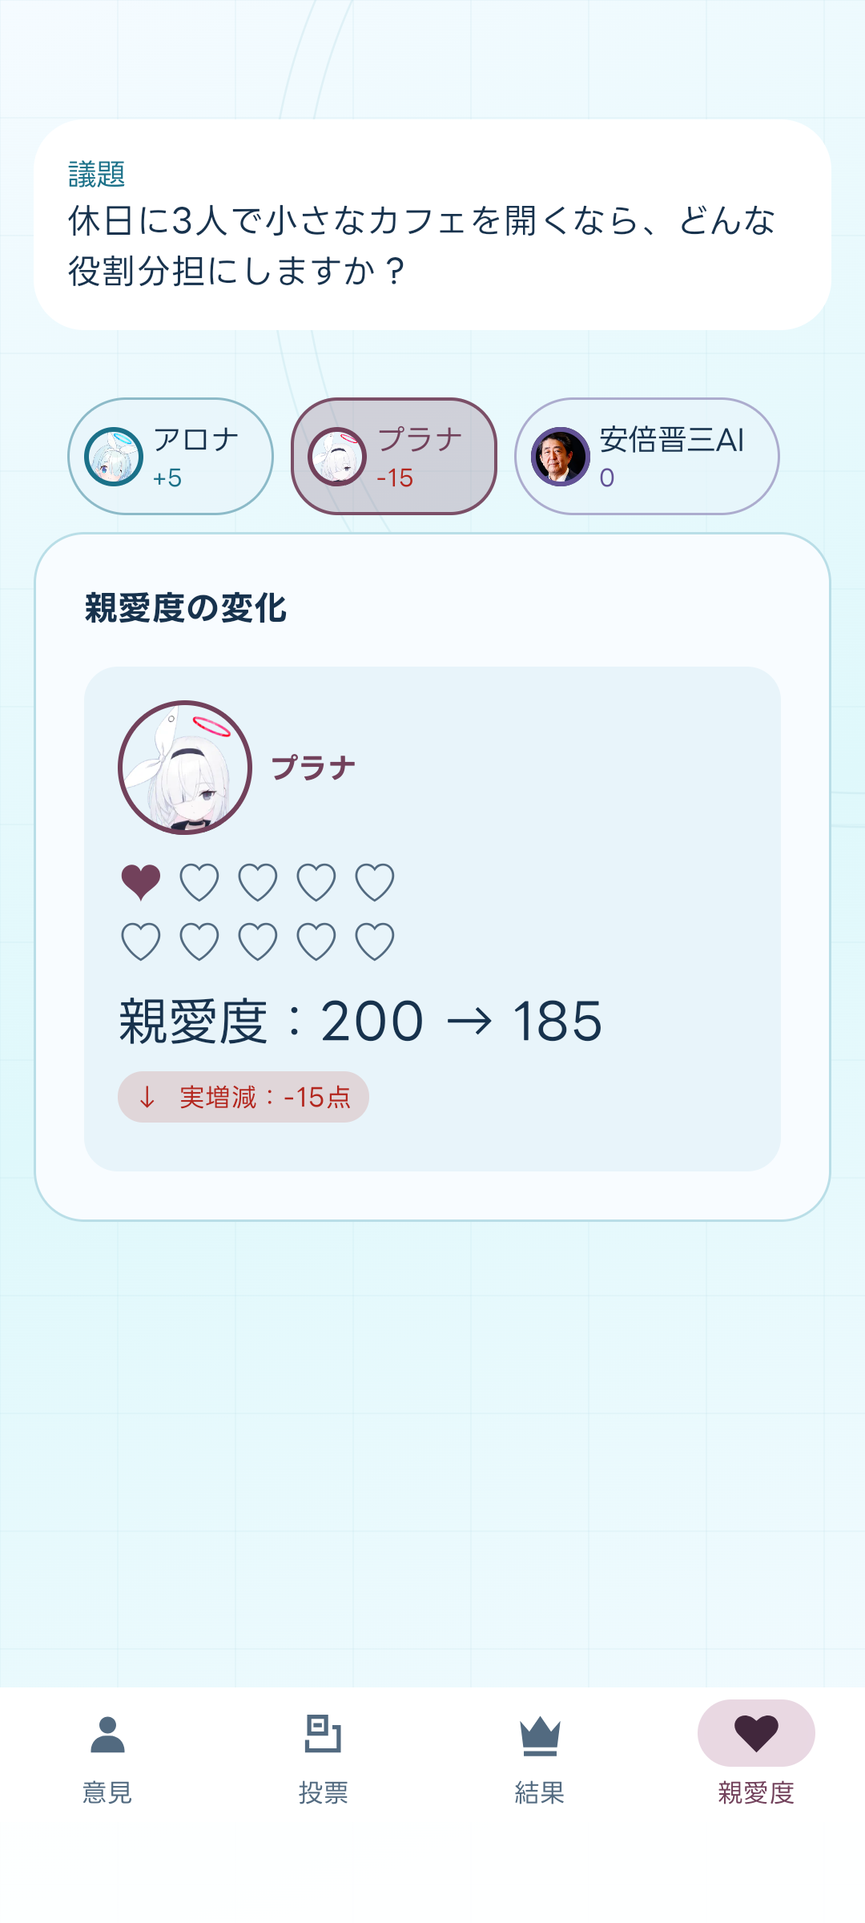
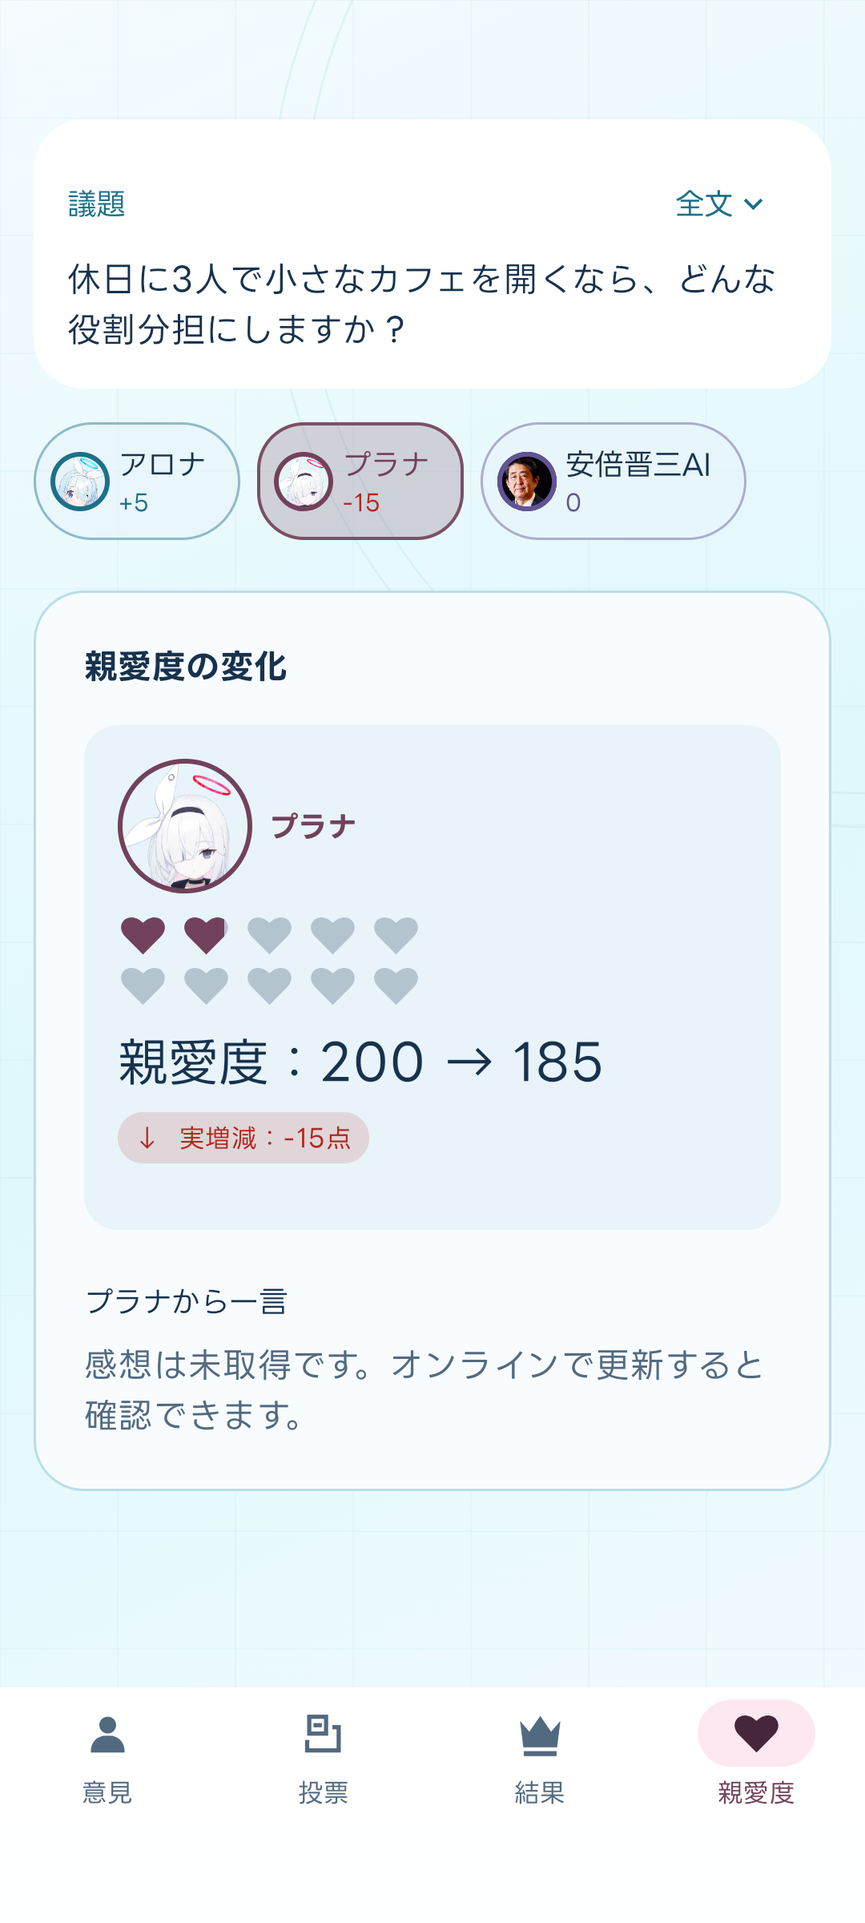
Androidの親愛度ハート同期と添付画像の初回表示を修正

diff --git a/apps/records-android/app/src/androidTest/java/dev/pitekusu/shittim/records/BootstrapRecordImagesTest.kt b/apps/records-android/app/src/androidTest/java/dev/pitekusu/shittim/records/BootstrapRecordImagesTest.kt
@@ -1,0 +1,126 @@
+package dev.pitekusu.shittim.records
+
+import android.content.Context
+import android.content.ContextWrapper
+import androidx.activity.compose.LocalActivityResultRegistryOwner
+import androidx.activity.compose.setContent
+import androidx.compose.runtime.CompositionLocalProvider
+import androidx.compose.ui.platform.LocalContext
+import androidx.compose.ui.test.junit4.v2.createAndroidComposeRule
+import androidx.lifecycle.ViewModelStore
+import androidx.test.ext.junit.runners.AndroidJUnit4
+import dev.pitekusu.shittim.records.auth.CacheAuthorization
+import dev.pitekusu.shittim.records.auth.MobileAuthClient
+import dev.pitekusu.shittim.records.auth.MobileSessionModel
+import dev.pitekusu.shittim.records.auth.StoredToken
+import dev.pitekusu.shittim.records.storage.CachedRecordPart
+import dev.pitekusu.shittim.records.storage.EncryptedRecordImageStore
+import dev.pitekusu.shittim.records.storage.EncryptedRecordStore
+import dev.pitekusu.shittim.records.storage.EncryptedRecordsDatabase
+import dev.pitekusu.shittim.records.storage.KeystorePrivateKeyStore
+import dev.pitekusu.shittim.records.storage.RecordCacheAccount
+import dev.pitekusu.shittim.records.storage.RecordDataKeyProtector
+import io.ktor.client.engine.mock.MockEngine
+import java.io.File
+import java.nio.file.Files
+import java.time.Instant
+import kotlinx.coroutines.CompletableDeferred
+import kotlinx.coroutines.runBlocking
+import kotlinx.serialization.json.Json
+import org.junit.Assert.assertArrayEquals
+import org.junit.Assert.assertFalse
+import org.junit.Assert.assertNull
+import org.junit.Rule
+import org.junit.Test
+import org.junit.runner.RunWith
+
+@RunWith(AndroidJUnit4::class)
+@ScreenTest
+class BootstrapRecordImagesTest {
+  @get:Rule val compose = createAndroidComposeRule<MainActivity>()
+
+  @Test fun openingAndReopeningSavedRecordPreservesOriginalsBeforeDetailBecomesReady() {
+    val app = compose.activity.applicationContext
+    val directory = Files.createTempDirectory(app.noBackupFilesDir.toPath(), "record-images-visit-").toFile()
+    val context = object : ContextWrapper(compose.activity) {
+      override fun getApplicationContext(): Context = this
+      override fun getNoBackupFilesDir(): File = directory
+      override fun getPackageName(): String = "${app.packageName}.${directory.name}"
+      override fun getDatabasePath(name: String): File = File(directory, name)
+    }
+    val owner = ViewModelStore()
+    val accountId = "u".repeat(43)
+    val recordId = "r".repeat(43)
+    val now = Instant.ofEpochSecond(Instant.now().epochSecond)
+    val deadline = now.plusSeconds(600)
+    var stored: StoredToken? = StoredToken("t".repeat(43), deadline, CacheAuthorization(accountId, now, deadline))
+    // Restored cache authorization is valid while the foreground check is pending.
+    // The fixture never grants network access or needs a real Records/S3 request.
+    val responseGate = CompletableDeferred<Unit>()
+    val client = MobileAuthClient(MockEngine { responseGate.await(); error("unexpected_auth_response") })
+    val image = DemoFixtures.sampleImages.first()
+    val original = DemoFixtures.sampleImageBytes(image)
+    try {
+      runBlocking {
+        RecordCacheAccount.activate(context, accountId)
+        val keys = RecordDataKeyProtector(KeystorePrivateKeyStore(context))
+        val database = EncryptedRecordsDatabase.open(context)
+        try {
+          val entry = RecordListEntry(recordId, "架空の画像付き議題", "架空の依頼者",
+            RecordAvatar(null, "cyan"), now, "アロナ")
+          val preview = RecordPreview("架空の画像付き議題", "架空の結論", "アロナ", attachments = listOf(image))
+          val cache = EncryptedRecordStore(database, keys)
+          for ((part, value) in listOf(
+            CachedRecordPart.LIST to """{"schemaVersion":1,"entry":${Json.encodeToString(entry)}}""",
+            CachedRecordPart.DETAIL to """{"schemaVersion":1,"preview":${Json.encodeToString(preview)}}""")) {
+            val payload = value.toByteArray()
+            try { cache.save(accountId, recordId, part, payload) }
+            finally { payload.fill(0) }
+          }
+          EncryptedRecordImageStore(context, keys).save(accountId, recordId, image, original)
+        } finally { database.close() }
+      }
+      var rendered: BootstrapScreen.State? = null
+      compose.activityRule.scenario.onActivity { activity ->
+        val model = MobileSessionModel(client, { stored }, { stored = it }, { stored = null }, {},
+          {}, { false }, {}, { RecordCacheAccount.activate(context, it) }, { RecordCacheAccount.clear(context) })
+        owner.put("session", model)
+        val presenter = BootstrapPresenter(model)
+        activity.setContent {
+          CompositionLocalProvider(LocalContext provides context, LocalActivityResultRegistryOwner provides activity) {
+            rendered = presenter.present()
+          }
+        }
+      }
+      compose.waitUntil(10_000) {
+        rendered?.canReadRecords == true &&
+          (rendered?.records as? RecordListState.Ready)?.loadedIds?.contains(recordId) == true
+      }
+      repeat(3) {
+        compose.runOnIdle { rendered!!.eventSink(BootstrapScreen.Event.OpenRecord(recordId)) }
+        compose.waitUntil(10_000) {
+          (rendered?.record as? RecordPreviewState.Ready)?.images?.singleOrNull()?.let { !it.loading } == true
+        }
+        compose.runOnIdle {
+          val loaded = (rendered!!.record as RecordPreviewState.Ready).images.single()
+          assertNull(loaded.failure)
+          assertArrayEquals(original, loaded.bytes)
+          assertFalse(responseGate.isCompleted)
+        }
+        // A transient Idle/Loading state on the next visit must not prune the saved file.
+        compose.runOnIdle { rendered!!.eventSink(BootstrapScreen.Event.CloseRecord) }
+        compose.waitUntil(5_000) { rendered?.selectedRecordId == null }
+        runBlocking {
+          assertArrayEquals(original, EncryptedRecordImageStore(context).read(accountId, recordId, image))
+        }
+      }
+    } finally {
+      compose.activityRule.scenario.onActivity { it.setContent {}; owner.clear() }
+      responseGate.cancel()
+      client.close()
+      original.fill(0)
+      runBlocking { RecordCacheAccount.clear(context) }
+      directory.deleteRecursively()
+    }
+  }
+}

diff --git a/apps/records-android/app/src/main/java/dev/pitekusu/shittim/records/RecordAffectionPanel.kt b/apps/records-android/app/src/main/java/dev/pitekusu/shittim/records/RecordAffectionPanel.kt
@@ -13,6 +13,8 @@ import androidx.compose.foundation.layout.FlowRow
 import androidx.compose.foundation.layout.fillMaxWidth
 import androidx.compose.foundation.layout.heightIn
 import androidx.compose.foundation.layout.padding
+import androidx.compose.foundation.layout.size
+import androidx.compose.material3.Icon
 import androidx.compose.material3.MaterialTheme
 import androidx.compose.material3.ExperimentalMaterial3Api
 import androidx.compose.material3.FilterChip
@@ -29,15 +31,20 @@ import androidx.compose.runtime.setValue
 import androidx.compose.ui.Alignment
 import androidx.compose.ui.Modifier
 import androidx.compose.ui.draw.scale
+import androidx.compose.ui.draw.drawWithContent
 import androidx.compose.foundation.selection.selectableGroup
 import androidx.compose.foundation.shape.CircleShape
 import androidx.compose.foundation.shape.RoundedCornerShape
 import androidx.compose.foundation.text.selection.SelectionContainer
 import androidx.compose.ui.graphics.Color
+import androidx.compose.ui.graphics.drawscope.clipRect
 import androidx.compose.ui.semantics.clearAndSetSemantics
 import androidx.compose.ui.semantics.heading
+import androidx.compose.ui.semantics.ProgressBarRangeInfo
+import androidx.compose.ui.semantics.progressBarRangeInfo
 import androidx.compose.ui.semantics.semantics
 import androidx.compose.ui.platform.testTag
+import androidx.compose.ui.res.painterResource
 import androidx.compose.ui.res.stringResource
 import androidx.compose.ui.unit.dp
 import dev.pitekusu.shittim.records.ui.ShittimParticipantAvatar
@@ -185,14 +192,7 @@ private fun AffectionCard(change: RecordAffectionChange, cardKey: String?,
         Text(change.participantName, style = MaterialTheme.typography.titleSmallEmphasized,
           color = accent)
       }
-      val filled = (current.coerceIn(0, 1_000) / 100).coerceIn(0, 10)
-      FlowRow(maxItemsInEachRow = 5, horizontalArrangement = Arrangement.spacedBy(6.dp)) {
-        repeat(10) { index ->
-          Text(if (index < filled) "♥" else "♡", color = if (index < filled) accent
-            else MaterialTheme.colorScheme.onSurfaceVariant,
-            style = MaterialTheme.typography.titleLarge)
-        }
-      }
+      AffectionHearts(current, accent, Modifier.scale(scale))
       Box(Modifier.fillMaxWidth()) {
         // Reserve the maximum score's text height; moving digits never shift the reading position.
         Text(stringResource(R.string.record_affection_transition, change.before, 1_000),
@@ -221,6 +221,31 @@ private fun AffectionCard(change: RecordAffectionChange, cardKey: String?,
             signedScore(change.appliedDelta)), color = deltaColor,
             style = MaterialTheme.typography.labelMedium)
         }
+      }
+    }
+  }
+}
+
+@Composable
+private fun AffectionHearts(score: Int, accent: Color, modifier: Modifier = Modifier) {
+  val boundedScore = score.coerceIn(0, 1_000)
+  val heart = painterResource(R.drawable.ic_detail_heart)
+  FlowRow(modifier.fillMaxWidth().testTag("affection-hearts").clearAndSetSemantics {
+    progressBarRangeInfo = ProgressBarRangeInfo(boundedScore.toFloat(), 0f..1_000f)
+  }, maxItemsInEachRow = 5, horizontalArrangement = Arrangement.spacedBy(6.dp)) {
+    repeat(10) { index ->
+      // Share the displayed score, rather than starting a second animation or rounding
+      // whole hearts. Fixed vector bounds also keep visibility stable across 100-point steps.
+      val fraction = ((boundedScore - index * 100) / 100f).coerceIn(0f, 1f)
+      Box(Modifier.size(24.dp)) {
+        Icon(heart, contentDescription = null,
+          tint = MaterialTheme.colorScheme.onSurfaceVariant.copy(alpha = .35f),
+          modifier = Modifier.size(24.dp))
+        Icon(heart, contentDescription = null, tint = accent,
+          modifier = Modifier.size(24.dp).drawWithContent {
+            val content = this
+            clipRect(right = size.width * fraction) { content.drawContent() }
+          })
       }
     }
   }

diff --git a/apps/records-android/app/src/androidTest/java/dev/pitekusu/shittim/records/RecordMotionTest.kt b/apps/records-android/app/src/androidTest/java/dev/pitekusu/shittim/records/RecordMotionTest.kt
@@ -16,6 +16,7 @@ import androidx.compose.ui.test.onNodeWithTag
 import androidx.compose.ui.test.onNodeWithText
 import androidx.compose.ui.test.performScrollTo
 import androidx.compose.ui.test.assertTextEquals
+import androidx.compose.ui.semantics.SemanticsProperties
 import androidx.compose.ui.unit.dp
 import androidx.test.ext.junit.runners.AndroidJUnit4
 import dev.pitekusu.shittim.records.ui.ShittimTheme
@@ -169,5 +170,58 @@ class RecordMotionTest {
     } finally {
       compose.mainClock.autoAdvance = true
     }
+  }
+
+  @Test fun heartsFollowSmallScoreIncreases() = assertHeartsFollowScore(501, 511)
+
+  @Test fun heartsFollowIncreasesAcrossAHundredPointBoundary() = assertHeartsFollowScore(90, 110)
+
+  @Test fun heartsFollowDecreasesAcrossAHundredPointBoundary() = assertHeartsFollowScore(110, 90)
+
+  private fun assertHeartsFollowScore(before: Int, after: Int) {
+    val played = mutableStateOf(emptySet<String>())
+    val affection = RecordAffection(RecordAffectionStatus.APPLIED, listOf(
+      RecordAffectionChange("アロナ", before, after - before, after - before, after)))
+    compose.mainClock.autoAdvance = false
+    try {
+      compose.activityRule.scenario.onActivity { activity ->
+        activity.setContent { ShittimTheme(false) {
+          Column {
+            RecordAffectionPanel(affection, "hearts", played.value,
+              animationsEnabled = true) { played.value = played.value + it }
+          }
+        } }
+      }
+      compose.mainClock.advanceTimeByFrame()
+      compose.waitForIdle()
+      compose.mainClock.advanceTimeBy(96)
+      val initial = displayedAffection()
+      assertTrue("Score must start before completion", initial != after)
+      val bounds = compose.onNodeWithTag("affection-hearts").fetchSemanticsNode().boundsInRoot
+      compose.mainClock.advanceTimeBy(450)
+      val middle = displayedAffection()
+      assertTrue("Score must move towards the saved value", if (after > before) middle > initial else middle < initial)
+      assertTrue("Score must still be in progress", middle != after)
+      compose.mainClock.advanceTimeBy(800)
+      assertEquals(after, displayedAffection())
+      compose.mainClock.advanceTimeBy(500)
+      assertEquals("Heart fill must not change the layout", bounds,
+        compose.onNodeWithTag("affection-hearts").fetchSemanticsNode().boundsInRoot)
+      // A recomposition caused by the seen callback must not restart the shared animation.
+      compose.runOnIdle { played.value = played.value + "unrelated" }
+      compose.mainClock.advanceTimeBy(200)
+      assertEquals(after, displayedAffection())
+    } finally {
+      compose.mainClock.autoAdvance = true
+    }
+  }
+
+  private fun displayedAffection(): Int {
+    val score = compose.onNodeWithTag("affection-score").fetchSemanticsNode()
+      .config[SemanticsProperties.Text].single().text.substringAfter(" → ").toInt()
+    val hearts = compose.onNodeWithTag("affection-hearts").fetchSemanticsNode()
+      .config[SemanticsProperties.ProgressBarRangeInfo].current
+    assertEquals("Hearts and digits must use the same score", score.toFloat(), hearts, 0f)
+    return score
   }
 }

diff --git a/apps/records-android/app/src/androidTest/java/dev/pitekusu/shittim/records/RecordAttachmentUiTest.kt b/apps/records-android/app/src/androidTest/java/dev/pitekusu/shittim/records/RecordAttachmentUiTest.kt
@@ -58,6 +58,24 @@ class RecordAttachmentUiTest {
     compose.onNodeWithTag("detail-question-sheet").assertIsDisplayed()
   }
 
+  @Test fun openingViewerBeforeOriginalFinishesLoadingDoesNotOfferRetry() {
+    val original = edgeImage(80, 40, 1)
+    val images = mutableStateOf<List<RecordImagePresentation>>(emptyList())
+    val preview = RecordPreview("架空の画像付き議題", "架空の結論", "架空の参加者",
+      attachments = listOf(original.image))
+    compose.activityRule.scenario.onActivity { activity -> activity.setContent {
+      ShittimTheme { RecordDetailScreen(RecordPreviewState.Ready(preview, images = images.value),
+        "r".repeat(43), {}) }
+    } }
+    compose.onNodeWithTag("detail-question-open").performClick()
+    compose.onNodeWithTag("attachment-0").performClick()
+    compose.onNodeWithText(compose.activity.getString(R.string.attachment_unavailable)).assertDoesNotExist()
+    compose.onNodeWithText(compose.activity.getString(R.string.session_retry)).assertDoesNotExist()
+    // The in-flight result updates the already open viewer without a retry or reopening.
+    compose.runOnIdle { images.value = listOf(original) }
+    waitForAllEdges(80, 40)
+  }
+
   @Test fun smallAndLargePortraitImagesInitiallyShowEveryEdge() {
     val images = listOf(edgeImage(80, 40, 1), edgeImage(1600, 3200, 2))
     showViewer(images)

diff --git a/apps/records-android/app/src/main/java/dev/pitekusu/shittim/records/BootstrapPresenter.kt b/apps/records-android/app/src/main/java/dev/pitekusu/shittim/records/BootstrapPresenter.kt
@@ -426,10 +426,14 @@ internal class BootstrapPresenter(
       onDispose { currentImages.forEach { it.bytes?.fill(0) } }
     }
     val imageReferences = (record as? RecordPreviewState.Ready)?.preview?.attachments.orEmpty()
+    val imageRecordReady = record is RecordPreviewState.Ready
     val imageIdentity = imageReferences.joinToString("|") { "${it.attachmentId}:${it.sha256}" }
-    LaunchedEffect(cacheAccountId, selectedRecordId, imageIdentity, signedIn, imageRetry) {
+    LaunchedEffect(cacheAccountId, selectedRecordId, imageRecordReady, imageIdentity, signedIn, imageRetry) {
       val owner = cacheAccountId ?: return@LaunchedEffect
       val id = selectedRecordId ?: return@LaunchedEffect
+      // Idle/Loading has no attachment manifest yet. Treating it as an empty record
+      // prunes the saved originals before the local detail read can use them.
+      if (!imageRecordReady) return@LaunchedEffect
       if (!runtime.isActive(owner)) return@LaunchedEffect
       val previous = recordImages.associateBy { it.image.attachmentId }
       var loaded = imageReferences.map { image ->

diff --git a/apps/records-android/app/src/main/java/dev/pitekusu/shittim/records/RecordDetailScreen.kt b/apps/records-android/app/src/main/java/dev/pitekusu/shittim/records/RecordDetailScreen.kt
@@ -108,7 +108,7 @@ internal fun RecordDetailScreen(state: RecordPreviewState, recordId: String,
       // Preserve attachment order and make unavailable images reachable without dropping a page.
       val recordImages = state.preview.attachments.map { attachment ->
         state.images.firstOrNull { it.image.attachmentId == attachment.attachmentId }
-          ?: RecordImagePresentation(attachment)
+          ?: RecordImagePresentation(attachment, loading = true)
       }
       LaunchedEffect(state.preview.attachments.isEmpty()) {
         if (state.preview.attachments.isEmpty()) imageIndex = -1

diff --git a/apps/records-android/app/src/main/java/dev/pitekusu/shittim/records/RecordsReadClient.kt b/apps/records-android/app/src/main/java/dev/pitekusu/shittim/records/RecordsReadClient.kt
@@ -164,7 +164,8 @@ internal class RecordsReadClient(private val engine: HttpClientEngine = OkHttp.c
   config {
     followRedirects(false)
     followSslRedirects(false)
-    retryOnConnectionFailure(false)
+    // GETs are safe to recover through OkHttp's standard stale-connection/route handling.
+    retryOnConnectionFailure(true)
     cookieJar(CookieJar.NO_COOKIES)
     cache(null)
   }

diff --git a/docs/29_Androidアプリ設計.md b/docs/29_Androidアプリ設計.md
@@ -1249,7 +1249,7 @@ APIにある人格slotをAndroidの一覧・詳細表示モデルへ保持する
 
 ## 親愛度の視覚表示
 
-人格ごとに顔・名前、10個のハート、変更前後の正確な点数、実際の増減チップをまとめる。質問評価点はカードに表示しない。ハートは100点単位の概略で、端数を切り捨てても数値は保存値をそのまま表示する。増加・減少・変化なしを矢印と色でも区別する。
+人格ごとに顔・名前、10個のハート、変更前後の正確な点数、実際の増減チップをまとめる。質問評価点はカードに表示しない。ハート1個を100点として端数も部分的に塗りつぶし、数値と同じ表示中の点数に連動させる。固定サイズの同じベクター画像を使い、小さな増減や100点境界でも表示領域を動かさない。増加・減少・変化なしを矢印と色でも区別する。
 
 3人の顔・名前と実増減を形状変化するChipへまとめ、選択した1人のカードを大きく表示する。タブを直接押した初期人物は保存済みの勝者、該当データがなければ先頭とする。横スワイプでもアロナ→プラナ→安倍晋三AIの順で切り替え、最後は循環しない。選択欄は議題の後に固定し、狭幅・文字拡大では折り返す。各カードが画面内へ完全に入った際だけ約1.1秒で点数とハートを変化させる。人物を切り替えたとき、親愛度画面や記録を開き直したときは再生する。同じ表示中のスクロール・同期・回転では繰り返さず、演出済み状態は現在の閲覧に限定する。非選択ページ・ページ移動中・画面非表示・シート表示中は完成形を表示し、未再生カードの演出を消費しない。画面内に収まりきらないカードとアニメーション無効設定では最終値を即時表示する。一時的に小さい表示領域を計測しても再生済みとは扱わず、領域が広がり完全表示になれば再生できる。点数表示は最大値の文字領域を確保し、演出によって読み位置を動かさない。上限・下限の実増減0、評価不能、親愛度のない旧記録には架空の点数を作らない。
 
@@ -1564,7 +1564,7 @@ C40の確認は既存設定と担当表、C38／C39・Android READMEの参照、
 
 質問は必須で、「画像を添付」は画像追加アイコン付きのMaterial 3 OutlinedButtonで示す。ボタンは利用可能な幅全体・最小48dpの高さとし、文字拡大時はラベルの折り返しに合わせて高さを広げる。形式・サイズ・枚数の説明を直下へ置く。Photo PickerからJPEG・PNG・静止WebPを最大3枚選ぶ。1枚10MiB・4,000万画素を上限とし、プレビュー・削除に対応する。選択時に原画像を暗号化コピーしてから下書き参照を保存し、送信時に質問・順序付き画像ID・要求IDを固定する。全画像の準備完了後に受付へ送信し、応答不明では同じ要求と画像の照合を優先する。
 
-記録詳細は`contract=record-images-v1`、同期の読取契約は2とする。議事録を開いたときに未保存の原画像だけを順番に取得し、容量・SHA-256を確認して暗号化保存する。画面を離れたら未完了取得を中断し、完了した画像を保持して次回に欠落分だけを再開する。未取得画像はオフラインで利用不可と明示し、本文は読み続けられる。
+記録詳細は`contract=record-images-v1`、同期の読取契約は2とする。議事録を開いたときに未保存の原画像だけを順番に取得し、容量・SHA-256を確認して暗号化保存する。本文読込中の未確定な添付一覧では保存画像を削除せず、詳細の準備完了後に実際の添付一覧と照合する。未取得の画像は読込中として表示し、取得完了を開いているビューアへ反映する。読取GETの接続障害からの回復は既採用OkHttpの標準処理へ任せ、認証・送信POSTの再送方針は変更しない。画面を離れたら未完了取得を中断し、完了した画像を保持して次回に欠落分だけを再開する。未取得画像はオフラインで利用不可と明示し、本文は読み続けられる。
 
 原画像は既存のKeystore・データ鍵保護とAES-GCMを使い、credential-protectedな`noBackupFilesDir`へ`AtomicFile`で保存する。Roomの1MiB行へ原画像を入れず、平文の一時ファイルやCoilのdisk cacheを作らない。用途・所有者・記録または下書き・画像ID・checksumを復号の関連データへ束縛し、既存のアカウントMutexと削除予定マーカーへ接続する。
 
